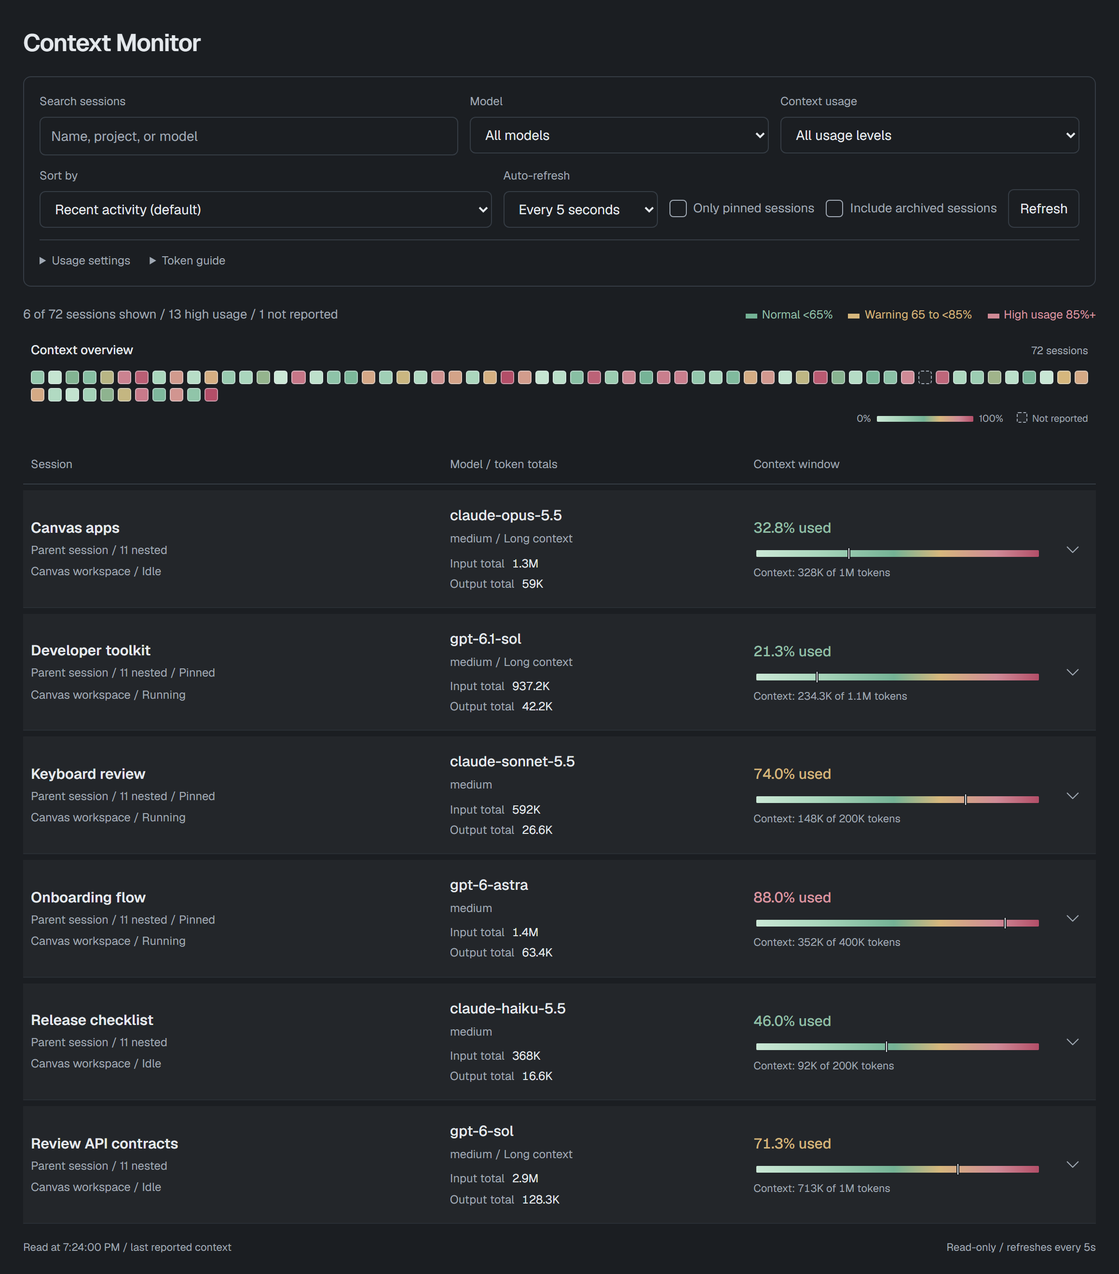
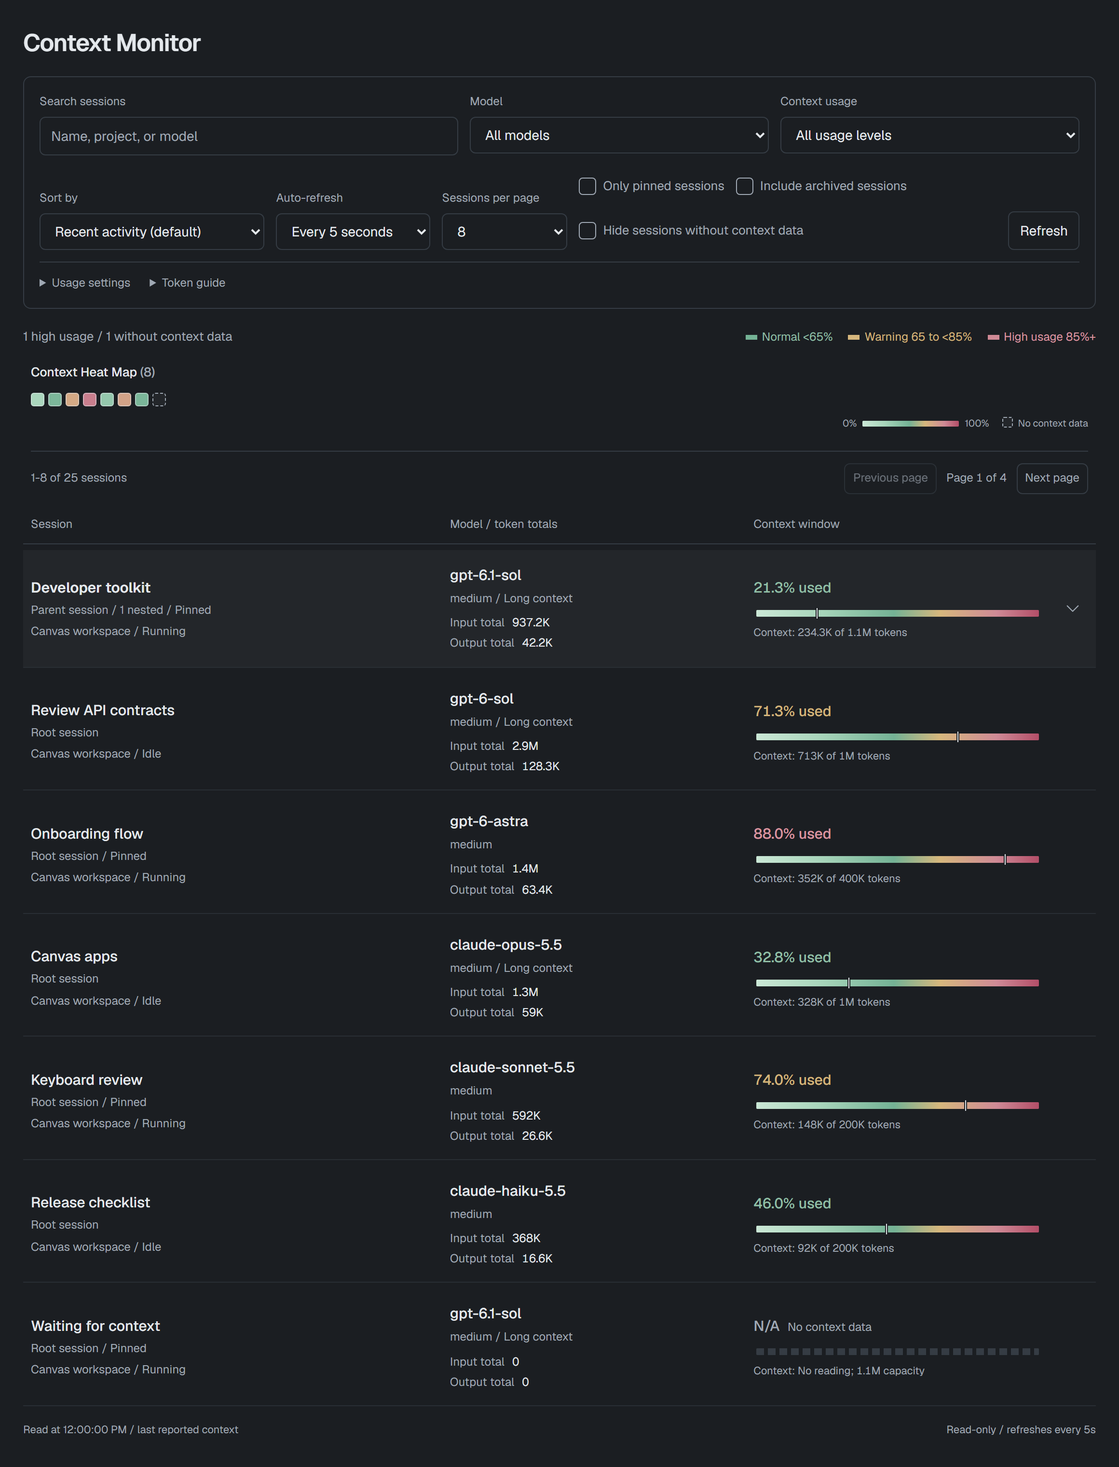
Page Context Monitor sessions and count only displayed heat-map tiles
Previously every matching session was rendered in the map and its total was detached from the title. Share an 8/16/32-item page between map and list, retain parent context without counting it, and add an explicit hide-missing-context filter. Match Screenshots navigation and refresh dark previews.

Copilot-Session: 00babc8b-3aa2-4873-a4ea-72e82f7c85ed

diff --git a/apps/context-monitor/app.js b/apps/context-monitor/app.js
@@ -1,4 +1,4 @@
-import { visibleTree, contextUsage, validateThresholds, DEFAULT_THRESHOLDS, SORT_PRESETS, isContextSort, tokenCount, availableModels, matchesFilters, buildUsageScale, usageColor } from "./model.mjs";
+import { visibleTree, contextUsage, validateThresholds, DEFAULT_THRESHOLDS, SORT_PRESETS, isContextSort, tokenCount, availableModels, buildUsageScale, usageColor, paginateSessions } from "./model.mjs";
 
 const token = document.querySelector('meta[name="monitor-token"]').content;
 const rows = document.getElementById("sessions");
@@ -9,6 +9,11 @@ const archived = document.getElementById("archived");
 const pinnedOnly = document.getElementById("pinned-only");
 const modelFilter = document.getElementById("model-filter");
 const usageFilter = document.getElementById("usage-filter");
+const hideMissing = document.getElementById("hide-missing");
+const pageSize = document.getElementById("page-size");
+const paginationRegion = document.getElementById("pagination");
+const previousPage = document.getElementById("page-previous");
+const nextPage = document.getElementById("page-next");
 const filterStatus = document.getElementById("filter-status");
 const sortBy = document.getElementById("sort-by");
 const sortHelp = document.getElementById("sort-help");
@@ -37,6 +42,7 @@ let savingThresholds = false;
 let listedModels = null;
 let heatFocusId = null;
 let currentGradient = null;
+let page = 1;
 const exact = (value) => value === null ? "Not reported" : value.toLocaleString();
 const compact = (value) => value === null ? "?" : new Intl.NumberFormat(undefined, { notation: "compact", maximumFractionDigits: 1 }).format(value);
 const levelLabel = { healthy: "Normal", watch: "Warning", high: "High usage", unknown: "Not reported" };
@@ -97,6 +103,7 @@ async function saveThresholds(reset = false) {
         draftDirty = false;
         savingThresholds = false;
         acceptSettings(data);
+        page = 1;
         showThresholdStatus(reset
             ? `Defaults restored: warning at ${data.defaults.watch}%, high usage at ${data.defaults.high}%.` : "Usage warnings saved.");
         render();
@@ -116,11 +123,11 @@ function element(tag, className, text) {
 }
 
 function filters() {
-    return { search: search.value, onlyPinned: pinnedOnly.checked, model: modelFilter.value, usageLevel: usageFilter.value };
+    return { search: search.value, onlyPinned: pinnedOnly.checked, model: modelFilter.value, usageLevel: usageFilter.value, hideMissing: hideMissing.checked };
 }
 
 function isFiltering() {
-    return Boolean(search.value.trim() || pinnedOnly.checked || modelFilter.value || usageFilter.value);
+    return Boolean(search.value.trim() || pinnedOnly.checked || modelFilter.value || usageFilter.value || hideMissing.checked);
 }
 
 function updateFilters() {
@@ -140,11 +147,13 @@ function updateFilters() {
     modelFilter.value = models.includes(previous) ? previous : "";
     modelFilter.disabled = models.length === 0;
     if (previous && modelFilter.value !== previous) {
+        page = 1;
         filterStatus.textContent = `Model filter reset to All models: ${previous} is no longer used by an open session.`;
         filterStatus.hidden = false;
     }
     pinnedOnly.disabled = snapshot.pinsAvailable !== true;
     if (pinnedOnly.disabled && pinnedOnly.checked) {
+        page = 1;
         pinnedOnly.checked = false;
         filterStatus.textContent = "The pinned-only filter was turned off because app pin metadata is unavailable.";
         filterStatus.hidden = false;
@@ -165,7 +174,8 @@ function readUsageScale() {
 
 function renderHeatmap(sessions, scale) {
     heatmapRegion.hidden = sessions.length === 0;
-    document.getElementById("heatmap-count").textContent = `${sessions.length} ${sessions.length === 1 ? "session" : "sessions"}`;
+    document.getElementById("heatmap-count").textContent = `(${sessions.length})`;
+    document.getElementById("heatmap-missing-key").hidden = !sessions.some((session) => session.context.percent === null);
     document.getElementById("heatmap-scale").style.setProperty("--usage-gradient", scale.gradient);
     if (!sessions.some((session) => session.id === heatFocusId)) heatFocusId = sessions[0]?.id ?? null;
     const fragment = document.createDocumentFragment();
@@ -178,7 +188,7 @@ function renderHeatmap(sessions, scale) {
         tile.tabIndex = session.id === heatFocusId ? 0 : -1;
         tile.title = [
             session.name, session.model || "Model not reported",
-            session.context.percent === null ? "Context not reported" : `${session.context.percent.toFixed(1)}% used (${levelLabel[session.context.level]})`,
+            session.context.percent === null ? "No context data: the app has not reported a complete reading." : `${session.context.percent.toFixed(1)}% used (${levelLabel[session.context.level]})`,
         ].join("\n");
         tile.setAttribute("aria-label", tile.title.replaceAll("\n", ". "));
         if (color !== null) tile.style.setProperty("--heat-color", color);
@@ -211,7 +221,7 @@ function showHeatSession(id) {
 
 function sessionRow(session, scale) {
     const isParent = session.descendantCount > 0;
-    const isOpen = !collapsed.has(session.id) || isFiltering();
+    const isOpen = !collapsed.has(session.id) || isFiltering() || session.pageContext;
     const container = element("article",
         `session${session.depth ? " is-nested" : " is-root"}${isParent ? " is-parent" : ""}${isParent && isOpen ? " is-expanded" : ""}`);
     container.id = `session-${session.id}`;
@@ -237,7 +247,8 @@ function sessionRow(session, scale) {
         session.project || (session.kind === "general_chat" ? "Chat" : "Session"),
         session.archived ? "Archived" : session.running === null ? "Status not reported" : session.running ? "Running" : "Idle",
     ].join(" / ")));
-    if (!session.matching) nameBlock.append(element("div", "filter-parent", "Parent of matching sessions"));
+    if (!session.matching) nameBlock.append(element("div", "filter-parent",
+        isFiltering() ? "Parent of matching sessions" : "Parent of sessions on this page"));
     identity.append(nameBlock);
     const actions = element("div", "row-actions");
     if (isParent) {
@@ -249,8 +260,9 @@ function sessionRow(session, scale) {
         fold.setAttribute("aria-label", `${label} for ${session.name}`);
         fold.setAttribute("aria-expanded", String(isOpen));
         fold.setAttribute("aria-controls", `children-${session.id}`);
-        fold.disabled = isFiltering();
-        fold.title = isFiltering() ? "Clear search and filters to show or hide nested sessions." : `${label} (${session.descendantCount})`;
+        fold.disabled = isFiltering() || session.pageContext;
+        fold.title = session.pageContext ? "Parent kept open for sessions on this page."
+            : isFiltering() ? "Clear search and filters to show or hide nested sessions." : `${label} (${session.descendantCount})`;
         fold.dataset.tooltip = fold.title;
         const icon = element("span", `disclosure-icon ${isOpen ? "hide-children" : "show-children"}`);
         icon.setAttribute("aria-hidden", "true");
@@ -283,7 +295,7 @@ function sessionRow(session, scale) {
         : `${levelLabel[level]} context: ${percent.toFixed(1)} percent, ${exact(used)} of ${exact(capacity)} tokens`);
     const numbers = element("div", "numbers");
     numbers.append(element("span", "percent", percent === null ? "N/A" : `${percent.toFixed(1)}% used`));
-    if (percent === null) numbers.append(element("span", "missing-usage", "Not reported"));
+    if (percent === null) numbers.append(element("span", "missing-usage", "No context data"));
     const line = element("div", "line");
     line.setAttribute("aria-hidden", "true");
     if (percent !== null) {
@@ -296,9 +308,9 @@ function sessionRow(session, scale) {
     const contextCount = element("div", "context-count");
     const contextText = used !== null && capacity !== null && capacity > 0
         ? `${compact(used)} of ${compact(capacity)} tokens`
-        : used !== null ? `${compact(used)} used; capacity not reported`
-        : capacity !== null && capacity > 0 ? `Not reported; ${compact(capacity)} capacity`
-        : "Not reported";
+        : used !== null ? `${compact(used)} used; capacity unavailable`
+        : capacity !== null && capacity > 0 ? `No reading; ${compact(capacity)} capacity`
+        : "No context reading";
     contextCount.append(element("span", "", "Context: "),
         element("span", "tokens", contextText));
     contextCount.title = used === null || capacity === null
@@ -354,25 +366,33 @@ function render() {
     document.getElementById("legend-watch").textContent = `Warning ${thresholds.watch} to <${thresholds.high}%`;
     document.getElementById("legend-high").textContent = `High usage ${thresholds.high}%+`;
     sortHelp.textContent = SORT_PRESETS[sortBy.value].hint;
-    const active = sessions.filter((session) => archived.checked || !session.archived);
     for (const session of visibleTree(sessions, { includeArchived: archived.checked })) {
         if (session.depth === 0 && session.descendantCount && !initializedParents.has(session.id)) {
             initializedParents.add(session.id);
             if (!isContextSort(sortBy.value)) collapsed.add(session.id);
         }
     }
-    const visible = visibleTree(sessions, { ...filters(), includeArchived: archived.checked, collapsed, sort: sortBy.value });
-    const matching = active.filter((session) => matchesFilters(session, filters()));
-    const heatSessions = visibleTree(sessions, { ...filters(), includeArchived: archived.checked, sort: sortBy.value })
+    const matching = visibleTree(sessions, { ...filters(), includeArchived: archived.checked, sort: sortBy.value })
         .filter((session) => session.matching);
-    renderHeatmap(heatSessions, scale);
-    const high = matching.filter((session) => session.context.level === "high").length;
-    const missing = matching.filter((session) => session.context.level === "unknown").length;
+    const pagination = paginateSessions(matching, page, Number(pageSize.value));
+    page = pagination.page;
+    const pageIds = new Set(pagination.sessions.map((session) => session.id));
+    const visible = visibleTree(sessions, { ...filters(), includeArchived: archived.checked, collapsed, sort: sortBy.value, sessionIds: pageIds });
+    renderHeatmap(pagination.sessions, scale);
+    paginationRegion.hidden = matching.length === 0;
+    document.getElementById("page-range").textContent = `${pagination.start}-${pagination.end} of ${pagination.matching} sessions`;
+    document.getElementById("page-status").textContent = `Page ${pagination.page} of ${pagination.pages}`;
+    previousPage.disabled = page === 1;
+    nextPage.disabled = page === pagination.pages;
+    const high = pagination.sessions.filter((session) => session.context.level === "high").length;
+    const missing = pagination.sessions.filter((session) => session.context.level === "unknown").length;
     const parentsShown = visible.filter((session) => !session.matching).length;
-    const prefix = isFiltering()
-        ? `${matching.length} matching ${matching.length === 1 ? "session" : "sessions"}${parentsShown ? ` / ${parentsShown} ${parentsShown === 1 ? "parent" : "parents"} shown for context` : ""}`
-        : `${visible.length} of ${active.length} sessions shown`;
-    count.textContent = `${prefix}${high ? ` / ${high} high usage` : ""}${missing ? ` / ${missing} not reported` : ""}`;
+    count.textContent = [
+        parentsShown ? `${parentsShown} ${parentsShown === 1 ? "parent" : "parents"} shown for context` : "",
+        high ? `${high} high usage` : "",
+        missing ? `${missing} without context data` : "",
+    ].filter(Boolean).join(" / ");
+    count.hidden = !count.textContent;
     const fragment = document.createDocumentFragment();
     if (!visible.length) {
         const empty = element("div", "empty");
@@ -387,7 +407,7 @@ function render() {
             if (session.descendantCount) {
                 const children = element("div", "session-children");
                 children.id = `children-${session.id}`;
-                children.hidden = collapsed.has(session.id) && !isFiltering();
+                children.hidden = collapsed.has(session.id) && !isFiltering() && !session.pageContext;
                 children.setAttribute("role", "group");
                 children.setAttribute("aria-label", `Nested sessions under ${session.name}`);
                 article.append(children);
@@ -433,6 +453,7 @@ async function load() {
         if (!snapshot) {
             rows.replaceChildren();
             count.textContent = "Unable to load sessions";
+            count.hidden = false;
         }
     } finally {
         rows.setAttribute("aria-busy", "false");
@@ -471,17 +492,29 @@ heatmap.addEventListener("keydown", (event) => {
     heatFocusId = buttons[next].dataset.id;
     buttons[next].focus();
 });
-search.addEventListener("input", render);
-archived.addEventListener("change", render);
-for (const control of [pinnedOnly, modelFilter, usageFilter]) {
+function resetPage() {
+    page = 1;
+    render();
+}
+function changePage(delta) {
+    page = Math.max(1, page + delta);
+    render();
+    if (!heatmapRegion.hidden) heatmapRegion.scrollIntoView({ block: "start", behavior: "instant" });
+}
+search.addEventListener("input", resetPage);
+archived.addEventListener("change", resetPage);
+pageSize.addEventListener("change", resetPage);
+previousPage.addEventListener("click", () => changePage(-1));
+nextPage.addEventListener("click", () => changePage(1));
+for (const control of [pinnedOnly, modelFilter, usageFilter, hideMissing]) {
     control.addEventListener("change", () => {
         filterStatus.hidden = true;
-        render();
+        resetPage();
     });
 }
 sortBy.addEventListener("change", () => {
     if (isContextSort(sortBy.value)) collapsed.clear();
-    render();
+    resetPage();
 });
 refresh.addEventListener("click", load);
 autoRefresh.addEventListener("change", scheduleRefresh);

diff --git a/apps/context-monitor/index.html b/apps/context-monitor/index.html
@@ -26,7 +26,7 @@
                         <option value="healthy">Normal (green)</option>
                         <option value="watch">Warning (yellow)</option>
                         <option value="high">High usage (red)</option>
-                        <option value="unknown">Not reported</option>
+                        <option value="unknown">No context data</option>
                     </select>
                 </div>
             </div>
@@ -55,9 +55,14 @@
                         <option value="300000">Every 5 minutes</option>
                     </select>
                 </div>
+                <div class="page-size-choice">
+                    <label for="page-size">Sessions per page</label>
+                    <select id="page-size"><option value="8" selected>8</option><option value="16">16</option><option value="32">32</option></select>
+                </div>
                 <div class="scope-filters">
                     <label class="check-filter"><input id="pinned-only" type="checkbox" disabled> Only pinned sessions</label>
                     <label class="check-filter"><input id="archived" type="checkbox"> Include archived sessions</label>
+                    <label class="check-filter"><input id="hide-missing" type="checkbox"> Hide sessions without context data</label>
                 </div>
                 <button id="refresh" type="button">Refresh</button>
             </div>
@@ -78,6 +83,7 @@
                 <details class="reading-help">
                     <summary>Token guide</summary>
                     <p class="token-guide" id="token-guide">Tokens are pieces of text. <strong>Input</strong> is what the model reads, including messages, history, and tools. <strong>Output</strong> is what it generates. Input/output totals add up across requests; <strong>context</strong> measures the current window, not those totals.</p>
+                    <p class="token-guide">No context data means the app has not reported a valid context reading. It does not mean 0% usage.</p>
                 </details>
             </div>
             <p id="filter-help" class="sr-only">Models are from your open (non-archived) sessions. Usage levels follow your saved thresholds. Parents stay visible to show where matching nested sessions belong.</p>
@@ -94,13 +100,20 @@
         <p id="warnings" class="notice" hidden></p>
         <section id="heatmap-region" class="heatmap-section" aria-labelledby="heatmap-title" hidden>
             <div class="heatmap-heading">
-                <h2 id="heatmap-title">Context overview</h2>
-                <span id="heatmap-count"></span>
+                <h2 id="heatmap-title">Context Heat Map <span id="heatmap-count">(0)</span></h2>
             </div>
             <div id="heatmap" class="heatmap-grid" role="group" aria-label="Session context usage" aria-describedby="heatmap-help" aria-busy="true"></div>
-            <div class="heatmap-key"><span>0%</span><span id="heatmap-scale" class="scale-key" aria-hidden="true"></span><span>100%</span><span class="unknown-key">Not reported</span></div>
-            <p id="heatmap-help" class="sr-only">One tile per matching session, including collapsed nested sessions. Use arrow keys to move between tiles, then Enter to show that session.</p>
+            <div class="heatmap-key"><span>0%</span><span id="heatmap-scale" class="scale-key" aria-hidden="true"></span><span>100%</span><span id="heatmap-missing-key" class="unknown-key" title="The app has not reported a complete context reading. This is not 0% usage.">No context data</span></div>
+            <p id="heatmap-help" class="sr-only">One tile per matching session on this page, including collapsed nested sessions. Use arrow keys to move between tiles, then Enter to show that session.</p>
         </section>
+        <nav id="pagination" aria-label="Session pages" hidden>
+            <span id="page-range" role="status"></span>
+            <div class="page-buttons">
+                <button id="page-previous" type="button" aria-label="Previous page">Previous page</button>
+                <span id="page-status" aria-live="polite"></span>
+                <button id="page-next" type="button" aria-label="Next page">Next page</button>
+            </div>
+        </nav>
         <div class="column-head" aria-hidden="true"><span>Session</span><span>Model / token totals</span><span>Context window</span><span></span></div>
         <div id="sessions" aria-label="Session hierarchy" aria-busy="true">
             <div class="skeleton"></div><div class="skeleton"></div><div class="skeleton"></div>

diff --git a/apps/context-monitor/style.css b/apps/context-monitor/style.css
@@ -45,9 +45,10 @@ button:focus-visible, input:focus-visible, select:focus-visible, summary:focus-v
 .control-panel label:not(.check-filter) { display: block; font-size: 12px; color: var(--muted); margin-bottom: 6px; }
 input[type="search"], input[type="number"], select { width: 100%; padding: 8px 11px; border: 1px solid var(--edge); border-radius: 6px; background: var(--surface); }
 .control-options { display: flex; flex-wrap: wrap; align-items: end; gap: 10px 12px; margin-top: 12px; }
-.scope-filters { display: flex; flex-wrap: wrap; gap: 6px 12px; }
+.scope-filters { display: flex; flex: 1 1 400px; flex-wrap: wrap; gap: 6px 12px; }
 .sort-choice { flex: 1 1 200px; min-width: 160px; }
 .refresh-choice { flex: 0 1 160px; min-width: 140px; }
+.page-size-choice { flex: 0 1 130px; min-width: 110px; }
 #refresh { min-height: 40px; margin-left: auto; }
 .control-settings { display: flex; flex-wrap: wrap; align-items: start; gap: 10px 20px; margin-top: 12px; padding-top: 12px; border-top: 1px solid var(--edge); }
 .control-settings details { min-width: 0; font-size: 12px; }
@@ -57,7 +58,7 @@ input[type="search"], input[type="number"], select { width: 100%; padding: 8px 1
 .sr-only { position: absolute; width: 1px; height: 1px; padding: 0; border: 0; overflow: hidden; clip-path: inset(50%); white-space: nowrap; }
 .filter-notice { color: var(--muted); font-size: 12px; margin: 10px 0 0; }
 input::placeholder { color: var(--muted); opacity: 1; }
-.check-filter { display: flex; gap: 7px; align-items: center; min-height: 40px; color: var(--muted); font-size: 13px; white-space: nowrap; cursor: pointer; }
+.check-filter { display: flex; gap: 7px; align-items: center; min-height: 40px; color: var(--muted); font-size: 13px; cursor: pointer; }
 .check-filter input { appearance: none; display: grid; place-content: center; flex: 0 0 18px; width: 18px; height: 18px; margin: 0; border: 1.5px solid var(--muted); border-radius: 4px; background: transparent; cursor: pointer; }
 .check-filter input:checked { background: var(--ink); border-color: var(--ink); }
 .check-filter input:checked::before { content: ""; width: 5px; height: 9px; border: solid var(--surface); border-width: 0 2px 2px 0; transform: translateY(-1px) rotate(45deg); }
@@ -86,7 +87,7 @@ input::placeholder { color: var(--muted); opacity: 1; }
 .heatmap-section[hidden] { display: none; }
 .heatmap-heading { display: flex; align-items: baseline; justify-content: space-between; gap: 12px; margin-bottom: 10px; }
 .heatmap-heading h2 { margin: 0; font-size: 13px; font-weight: 500; }
-#heatmap-count { font-size: 11px; color: var(--muted); }
+#heatmap-count { font: inherit; color: var(--muted); }
 .heatmap-grid { display: grid; grid-template-columns: repeat(auto-fill, minmax(14px, 1fr)); gap: 4px; }
 .heat-cell { aspect-ratio: 1; min-width: 0; padding: 0; border: 1px solid color-mix(in srgb, var(--heat-color), var(--ink) 50%); border-radius: 3px; background: var(--heat-color); }
 .heat-cell:hover { background: var(--heat-color); border-color: var(--ink); }
@@ -97,6 +98,11 @@ input::placeholder { color: var(--muted); opacity: 1; }
 .scale-key { width: 100px; height: 6px; border-radius: 1px; background: var(--usage-gradient); }
 .unknown-key { margin-left: 8px; }
 .unknown-key::before { content: ""; display: inline-block; width: 9px; height: 9px; margin-right: 5px; vertical-align: -1px; border: 1px dashed var(--muted); border-radius: 2px; background: var(--hover); }
+#pagination { display: flex; flex-wrap: wrap; align-items: center; justify-content: space-between; gap: 10px; margin: 0 8px 12px; padding-top: 12px; border-top: 1px solid var(--edge); color: var(--muted); font-size: 12px; }
+#pagination[hidden] { display: none; }
+.page-buttons { display: flex; align-items: center; flex-wrap: wrap; gap: 10px; }
+.page-buttons button { min-height: 32px; font-size: 12px; padding: 5px 8px; }
+#page-status { font-variant-numeric: tabular-nums; white-space: nowrap; }
 .token-guide { color: var(--muted); font-size: 12px; line-height: 1.6; margin: 10px 0 0; max-width: 85ch; }
 .token-guide strong { color: var(--ink); font-weight: 500; }
 .column-head, .session-row { display: grid; grid-template-columns: minmax(0, 1.4fr) minmax(0, 1fr) minmax(175px, 1fr) 32px; gap: 16px; align-items: center; }

diff --git a/apps/context-monitor/README.md b/apps/context-monitor/README.md
@@ -2,7 +2,7 @@
 
 See your GitHub Copilot app sessions, models, and context usage in one canvas.
 
-<a href="screenshot-full.png?v=54f2dd2eabd8"><img src="screenshot.png?v=b4bfce3d0b81" alt="Context Monitor with a session heat map, gradient usage bars, and sample GPT-6, GPT-6.1, and Claude sessions" width="640"></a>
+<a href="screenshot-full.png?v=ea3c356aa484"><img src="screenshot.png?v=869949a5c605" alt="Context Monitor with paged sessions, a heat map, gradient usage bars, and sample GPT-6, GPT-6.1, and Claude sessions" width="640"></a>
 
 ## Use in the GitHub Copilot app
 
@@ -19,7 +19,9 @@ Install in personal scope to make Context Monitor available from Canvas apps acr
 
 Filter by model, pinned sessions, or context usage. Use the arrow at the end of a parent row to show its nested sessions.
 
-The heat map includes collapsed sessions. Hover for usage or select a tile to inspect it.
+Use Previous page and Next page to browse 8, 16, or 32 sessions at a time. The heat map counts only the tiles on that page, including collapsed sessions. Select a tile to inspect it.
+
+Hide sessions without context data removes the dashed tiles. These mean the app has no reported context reading, not 0% usage.
 
 Choose a refresh interval or refresh manually. Open Usage settings to change the warning levels or reset them to 65% and 85%. Select a session name for exact token counts.
 
